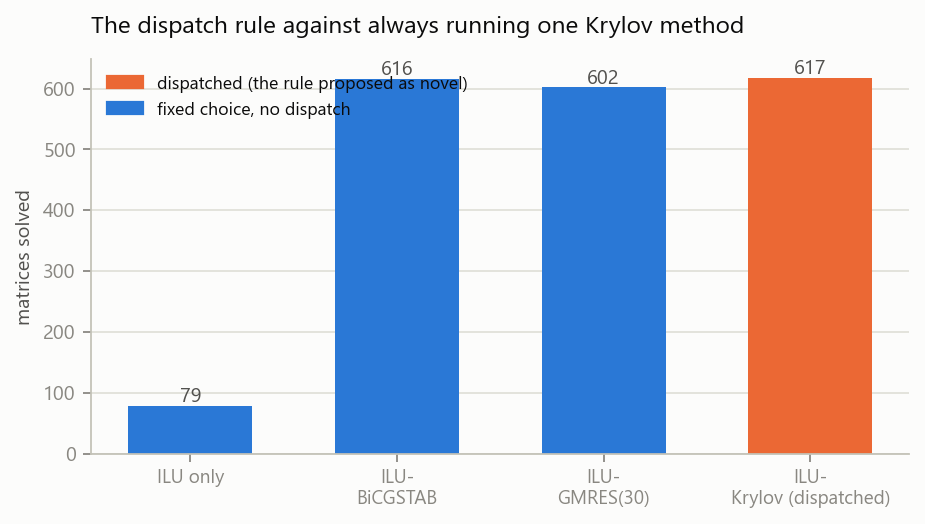
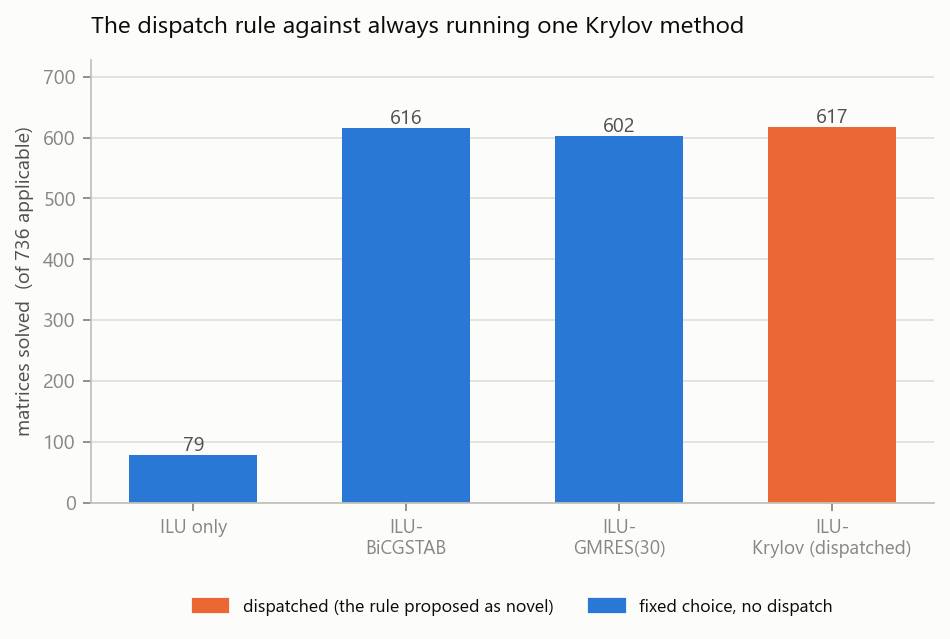
Move the ablation legend out of the plot and show its denominator
The legend sat inside the axes at upper left, on top of the tallest bar's value label --
the same collision already fixed in two other charts. It now sits below the axes, the
y-axis carries the denominator (736 applicable), and the ylim leaves headroom.

diff --git a/tools/make_figures.py b/tools/make_figures.py
@@ -259,17 +259,20 @@ def fig_dispatch_ablation(res):
     counts = [(res[(res.method == m) & (res.status == "solved")].shape[0]) for m in have]
     colours = [C1 if m != "ILU-Krylov (dispatched)" else C2 for m in have]
 
-    fig, ax = plt.subplots(figsize=(6.6, 3.2))
+    applicable = int(res[res.method == have[0]].status.isin(APPLICABLE).sum())
+    fig, ax = plt.subplots(figsize=(6.8, 3.6))
     bars = ax.bar(range(len(have)), counts, width=0.6, color=colours)
+    ax.set_ylim(0, max(counts) * 1.18)      # headroom so the labels clear the legend
     for b, c in zip(bars, counts):
         ax.text(b.get_x() + b.get_width() / 2, c, f"{c}", ha="center", va="bottom",
                 fontsize=9, color=INK2)
     ax.set_xticks(range(len(have)), [m.replace("ILU-", "ILU-\n") for m in have], fontsize=8.5)
-    ax.set_ylabel("matrices solved")
+    ax.set_ylabel(f"matrices solved  (of {applicable} applicable)")
     ax.set_title("The dispatch rule against always running one Krylov method", loc="left", pad=12)
+    # Below the axes: inside, it sat on top of the tallest bar's value label.
     ax.legend(handles=[Patch(color=C2, label="dispatched (the rule proposed as novel)"),
                        Patch(color=C1, label="fixed choice, no dispatch")],
-              loc="upper left")
+              loc="upper center", bbox_to_anchor=(0.5, -0.18), ncols=2)
     _hide_grid_x(ax); ax.grid(axis="x", visible=False); ax.grid(axis="y", visible=True)
     save(fig, "06_dispatch_ablation",
          "If the dispatched bar matches always-BiCGSTAB, the dispatch rule adds "
